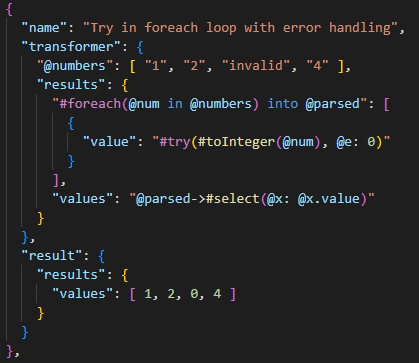
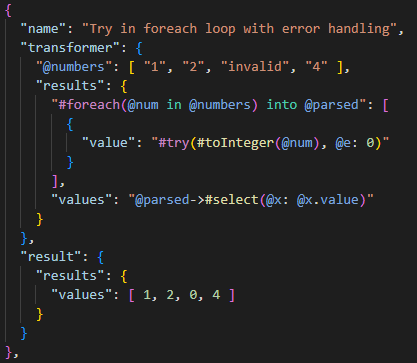
Added code completions to VSCode extension

diff --git a/IDE/Extensions/VSCode/jolt/README.md b/IDE/Extensions/VSCode/jolt/README.md
@@ -1,4 +1,4 @@
-Welcome to the Jolt language extension! At the moment, this provides syntax coloring for your Jolt transformers when using the `*.jolt.json` file extension to make reading and managing your transforms a bit easier. The Jolt language interpreter is written in C# and published to NuGet. Please see the project's [GitHub repository](https://github.com/Norhaven/Jolt) for further information and complete documentation.
+Welcome to the Jolt language extension! This provides syntax coloring, method completion, and variable completion for your Jolt transformers when using the `*.jolt.json` file extension to make reading and managing your transforms a bit easier. The Jolt language interpreter is written in C# and published to NuGet. Please see the project's [GitHub repository](https://github.com/Norhaven/Jolt) for further information and complete documentation.
 
 ## Disambiguation
 
@@ -6,13 +6,27 @@ This is _not_ part of the much older and unrelated Java-based JSON transformatio
 
 ## Features
 
-Right now, this language extension solely provides syntax coloring for your Jolt transformers. For example:
+### Syntax Coloring
+
+The Jolt language is embedded inside JSON strings, and editing transforms with the default JSON coloring can make it more difficult to develop and maintain. This language extension provides syntax coloring to make that easier.
 
 ![Match Expression](IDE/Extensions/VSCode/jolt/images/match-with-test-colorization.png)
 
 ![Foreach Loop Expression](IDE/Extensions/VSCode/jolt/images/foreach-test-colorization.png)
 
-> As a heads up, additional work on the roadmap for this extension intends to offer further functionality such as code completion and transformer validation, among other features.
+### Method & Variable Completion
+
+It's also a bit difficult to know at a glance what the available Jolt Library methods are and their signatures without some help, especially when trying to understand which methods are valid in which areas of your transformer. When you type either a method start symbol `#` or a piped method symbol `->`, you will get a list of available library methods with their signatures. Selecting one will provide a snippet to help get you going.
+
+The same holds true for variables and understanding which are currently in scope for you to use and which are not. This extension provides context-sensitive method and variable completions to help speed up your development and maintenance abilities.
+
+![Method And Variable Completions](IDE/Extensions/VSCode/jolt/images/method-and-variable-completions.gif)
+
+### Method Information On Hover
+
+Lastly, you may forget what a particular method is for and need a quick refresher on the documented method information. It also slows down your development if you have to continually refer to the README file, so the documented definition for a given method is available when hovering over it.
+
+![Method Information](IDE/Extensions/VSCode/jolt/images/method-information-on-hover.png)
 
 ## Requirements
 
@@ -24,12 +38,25 @@ This extension offers default colorization settings via the `editor.tokenColorCu
 * **Dark Mode** (via `Default Dark Modern`, `Default Dark+`, or `Visual Studio Dark`)
 * **Light Mode** (via `Default Light Modern`, `Default Light+`, or `Visual Studio Light`)
 
+## Current Limitations
+
+There are a few use cases not covered by the extension, most notably that your custom methods will not be available in either the method completion dropdown or the hover documentation due to them being registered at runtime (which could change the implementation, intended usage, and other areas that aren't visible at compile time). 
+
+> We're currently looking into how to provide this to you in the best way possible, but for now they won't be available.
+
 ## Release Notes
 
 ### 1.0.0
 
 Initial release of the Jolt language extension. This includes:
 - Language syntax colorization within `*.jolt.json` files.
+
+### 1.1.0
+
+Followup release of the Jolt language extension. This includes:
+- Method completions
+- Variable completions
+- On-Hover documentation
 
 ---
 
